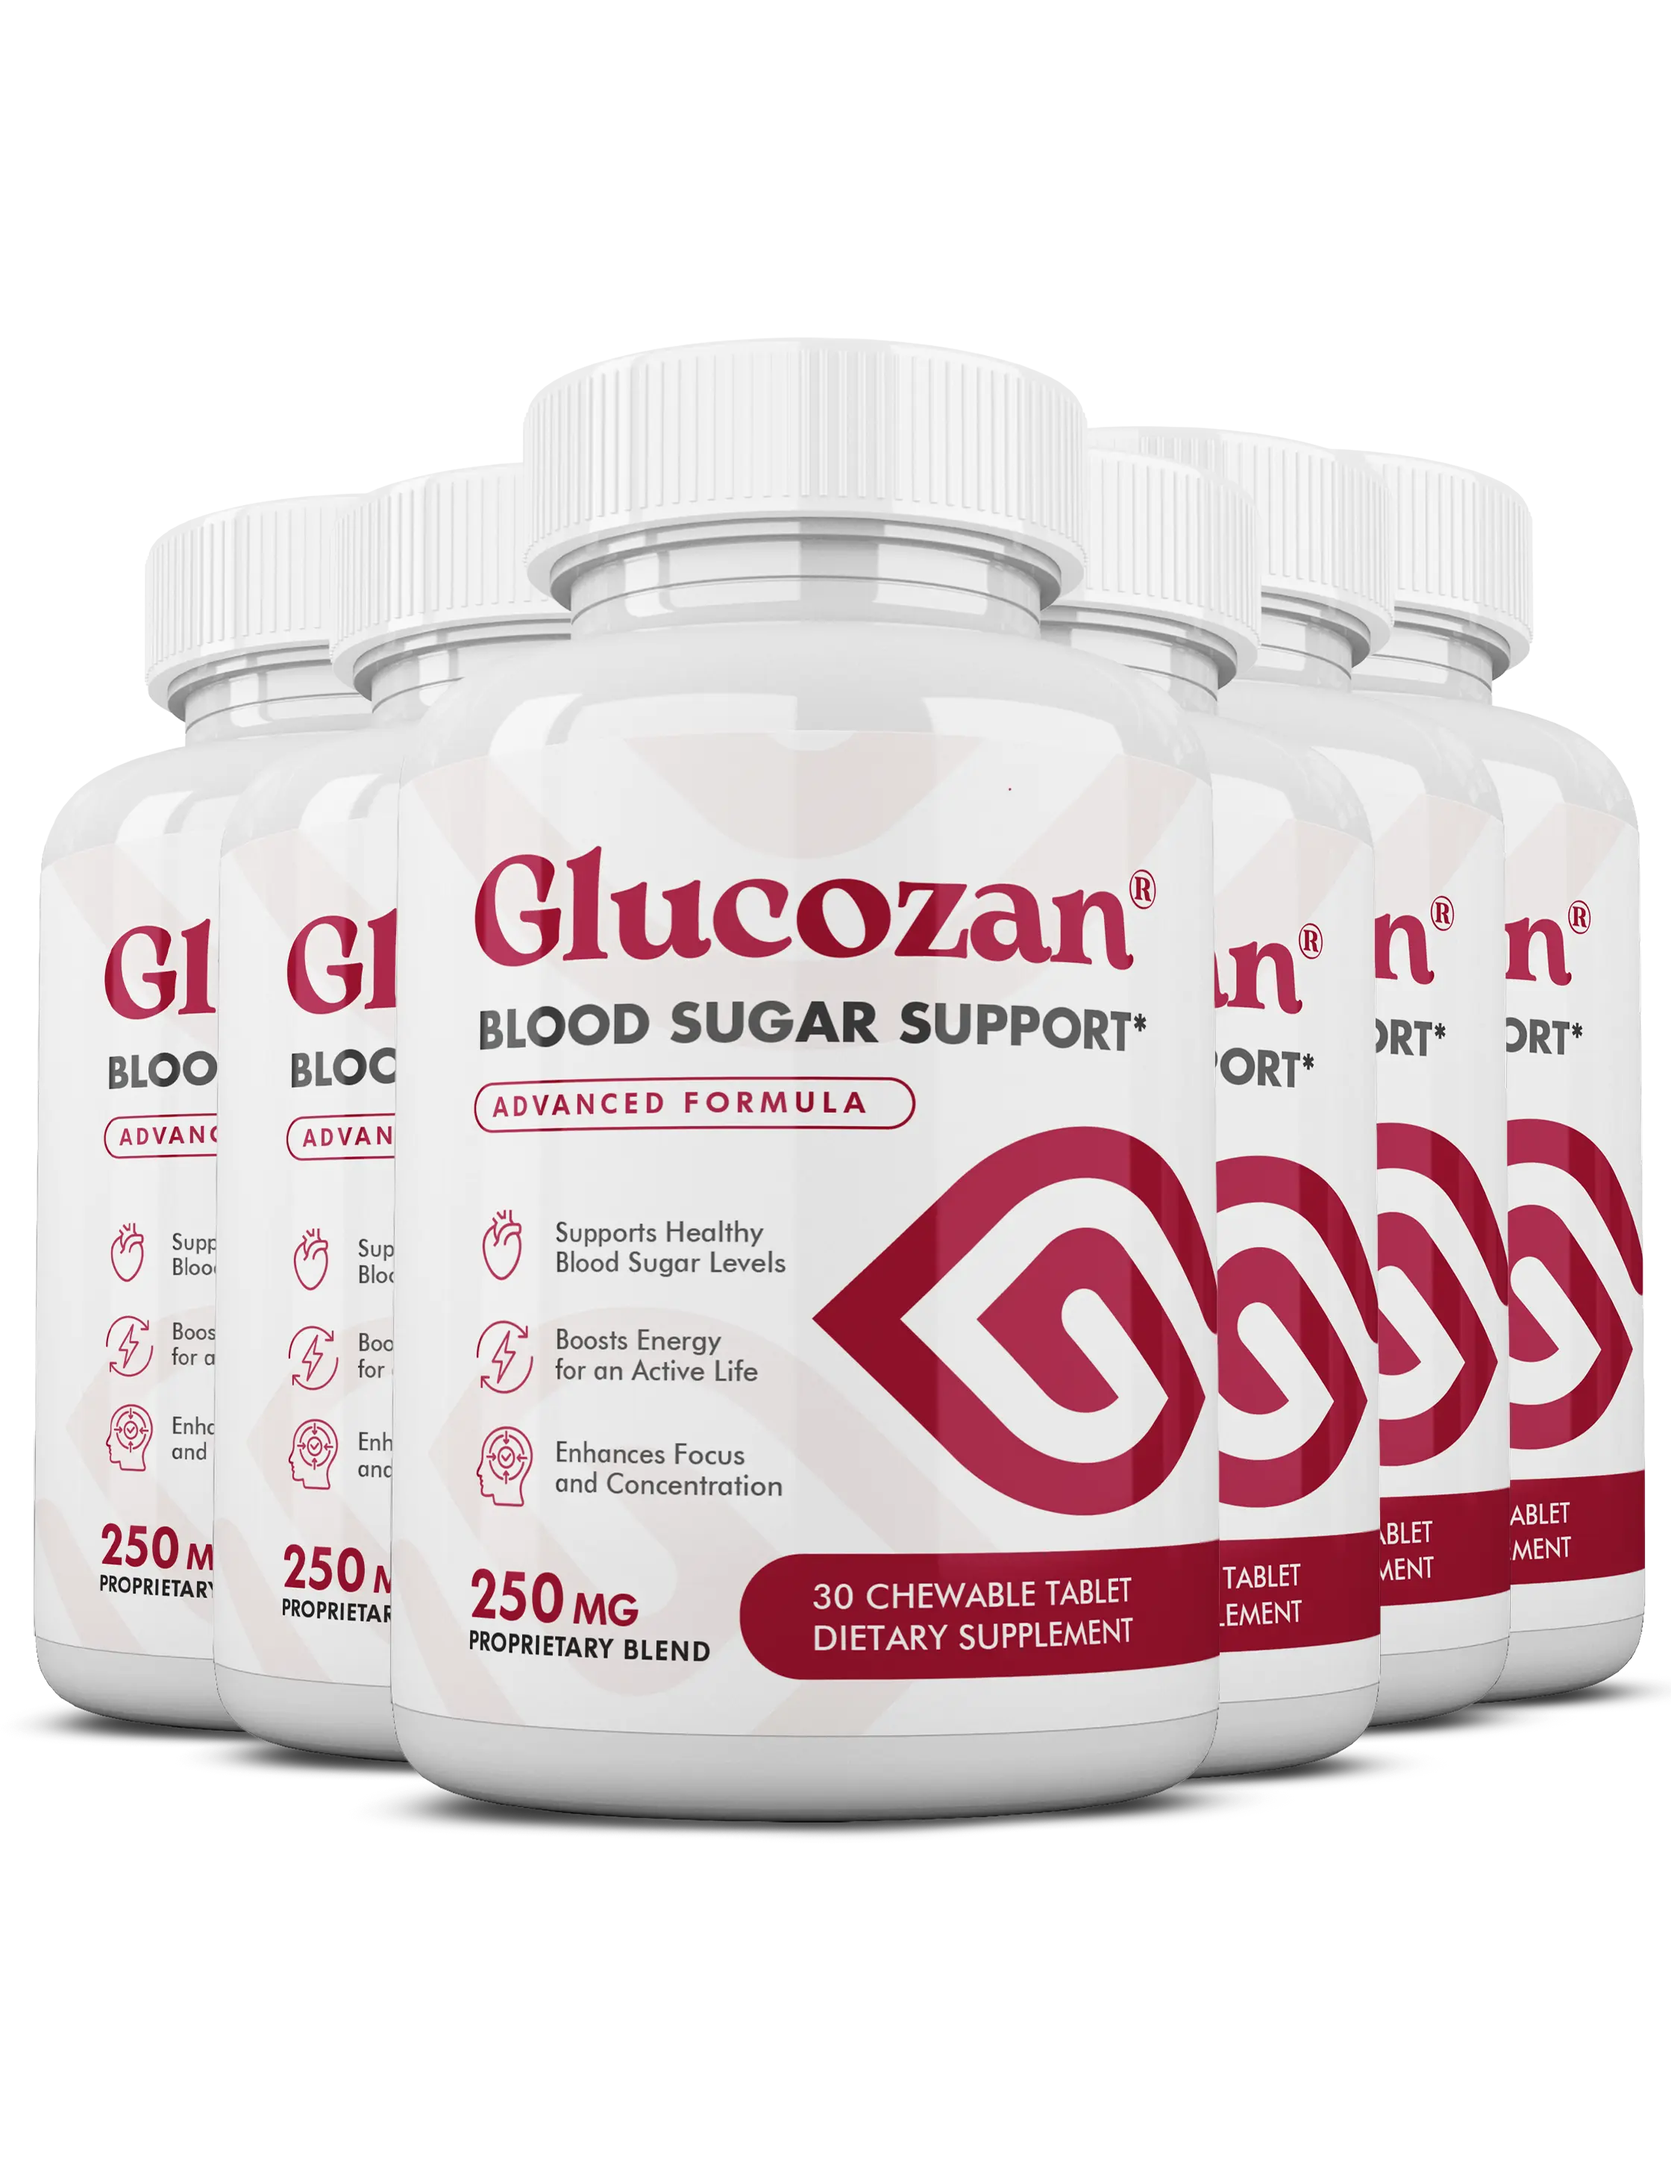
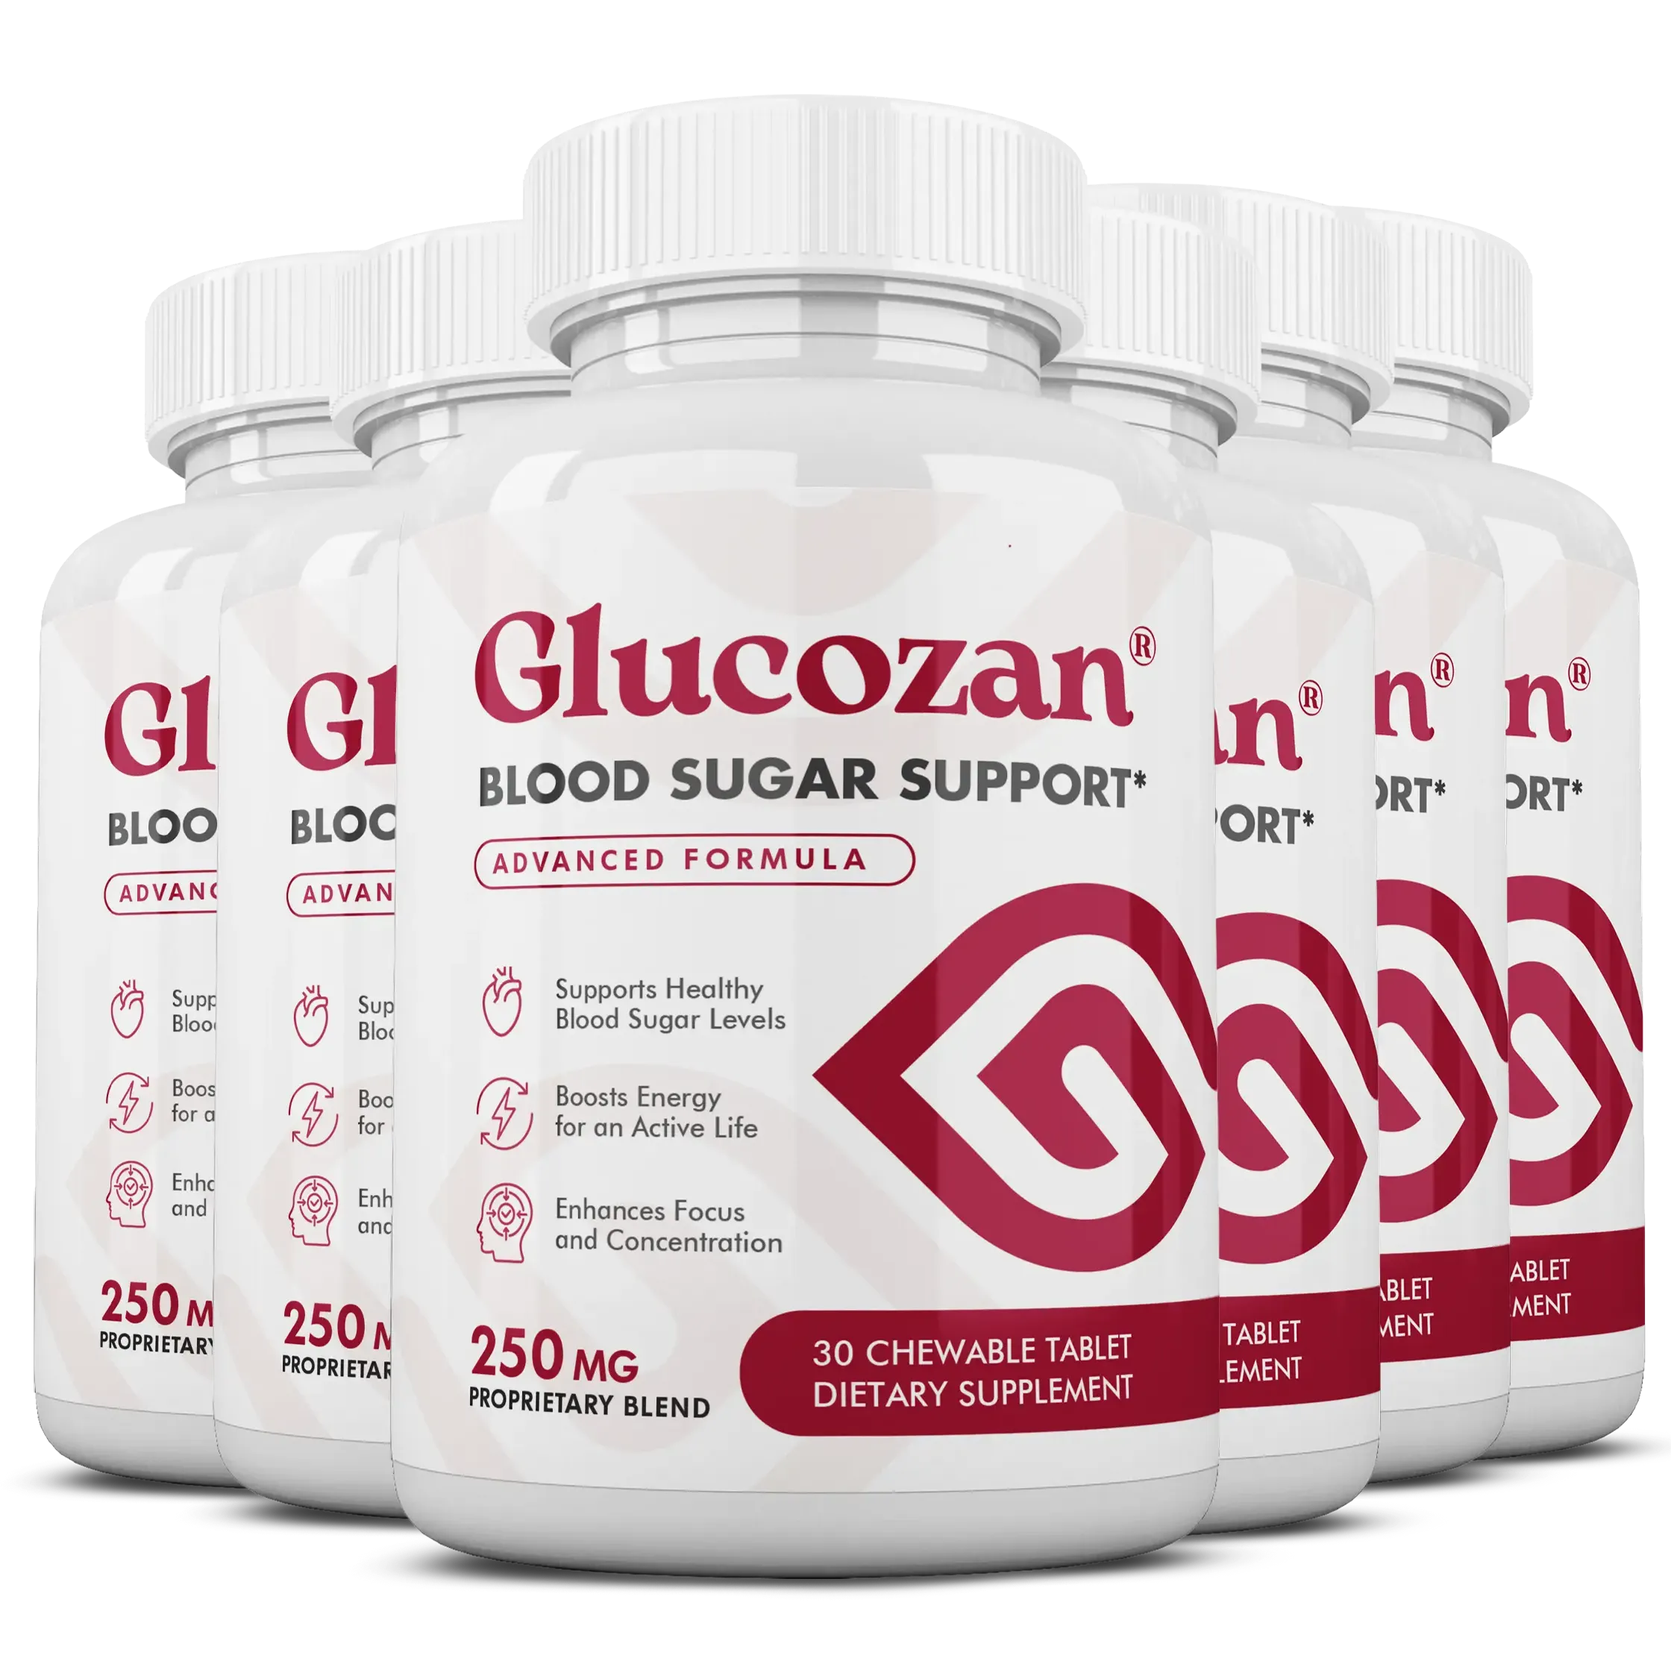
Glucozan - buying boxes images + effect almost finished

diff --git a/css/glucozan/style.css b/css/glucozan/style.css
@@ -648,11 +648,24 @@ h1,h2{
 .price-row .row{align-items: center;}
 .pricing-block{
     background: #FFFFFF;
+    cursor: pointer;
     border: 5px solid #6F68AF;
     box-shadow: 0px 30px 50px rgba(0, 0, 0, 0.20);
     border-radius: 12px;
     position: relative;
     overflow: hidden;
+    transition: 0.5s;
+    -webkit-transition: 0.5s;
+    -moz-transition: 0.5s;
+    -ms-transition: 0.5s;
+    -o-transition: 0.5s;
+}
+.pricing-block:hover {
+    transform: scale(1.025);
+    -webkit-transform: scale(1.025);
+    -moz-transform: scale(1.025);
+    -ms-transform: scale(1.025);
+    -o-transform: scale(1.025);
 }
 .pricing-top{
     padding: 24px 16px;
@@ -683,7 +696,7 @@ h1,h2{
 }
 .product-img img{
     /*height: 100%;*/
-    width: 77%;
+    width: 100%;
     /*width: 260px;
     height: 300px;*/
     margin: 0 auto;
@@ -714,6 +727,7 @@ h1,h2{
     color: #686868;
     line-height: 24px;
     font-family: "Inter", serif;
+    padding: 0 5px;
 }
 .product-databx h3 b{
     font-size: 44px;
@@ -800,6 +814,20 @@ h1,h2{
     width: 100%;
     border-radius: 6px;
 }
+
+
+@media (min-width: 992px) {
+
+    .price-row .row {
+        margin-top: 110px;
+    }
+
+    .pricing-block.popular-block {
+        margin-top: -62px;
+
+    }
+}
+
 
 .popular-block{
     border-color: #AB2D4C;
@@ -1151,9 +1179,9 @@ footer{
 .stop-pricing-wrp .product-img{
     padding: 32px 5px 0;
 }
-.stop-pricing-wrp .product-img img{
+/*.stop-pricing-wrp .product-img img{
     height: 245px;
-}
+}*/
 .stop-pricing-wrp .product-databx h6{
     margin: 16px auto 10px;
 }
@@ -1271,7 +1299,7 @@ footer{
     margin: 0 0 0 15px;
 }
 .stop-pricing-wrp .popular-block .product-img img{
-    height: 367px;
+    /*height: 367px;*/
 }
 .free-box{
     margin: 40px 0;
@@ -1403,8 +1431,8 @@ footer{
 
 .guarantee-badge {
     position: absolute;
-    top: 35px;
-    right: 35px;
+    top: 65px;
+    right: 10px;
     width: 80px; /* Adjust size as needed */
     height: 80px; /* Adjust size as needed */
     z-index: 2;
@@ -1419,6 +1447,11 @@ footer{
 /* Alternative selector if the above doesn't work */
 .pricing-wrp .first .guarantee-badge {
     /* Your specific styles for the first bottle */
-    top: 10px;
+    top: 57px;
     right: 80px;
 }
+
+/*.pricing-wrp .first .product-img img {
+   width: 77%!important;
+    height: auto;
+}*/

diff --git a/css/glucozan/responsive.css b/css/glucozan/responsive.css
@@ -221,12 +221,12 @@
 		width: 95px;
 		/*height: 60px;
 		transform: translate(0, 0);*/
-		top: 35px;
+		top: 45px;
 		right: 10px;
 	}
 	.pricing-wrp .first .guarantee-badge {
 		/* Your specific styles for the first bottle */
-		top: 10px;
+		top: 40px;
 		right: 58px;
 	}
 }

diff --git a/pages/glucozan-index.php b/pages/glucozan-index.php
@@ -362,7 +362,7 @@
 
                                     <div class="product-img">
                                         <figure>
-                                            <img src="/images/glucozan/1.webp" alt="Product">
+                                            <img src="/images/glucozan/1.png" alt="Product">
                                             <div class="guarantee-badge">
                                                 <img src="/images/guarantee-badge.png" alt="Guarantee">
                                             </div>
@@ -400,7 +400,7 @@
 
                                     <div class="product-img">
                                         <figure>
-                                            <img src="/images/glucozan/6.webp" alt="Product">
+                                            <img src="/images/glucozan/6.png" alt="Product">
                                             <div class="guarantee-badge">
                                                 <img src="/images/guarantee-badge.png" alt="Guarantee">
                                             </div>
@@ -437,7 +437,7 @@
 
                                     <div class="product-img">
                                         <figure>
-                                            <img src="/images/glucozan/3.webp" alt="Product">
+                                            <img src="/images/glucozan/3.png" alt="Product">
                                             <div class="guarantee-badge">
                                                 <img src="/images/guarantee-badge.png" alt="Guarantee">
                                             </div>
